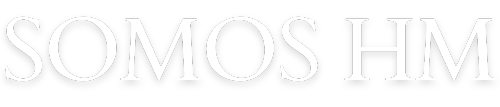
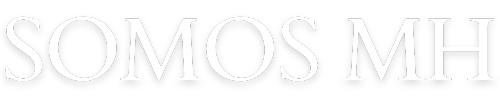
hm a mh

diff --git a/src/components/About.jsx b/src/components/About.jsx
@@ -36,7 +36,7 @@ const AboutUs = () => {
           <h2 className="section-title">Nuestra Misión</h2>
           <i className="fas fa-arrow-up arrow-up"></i>
           <p className="section-text">
-            En HM, nos dedicamos a proveer cortinas metálicas de alta calidad que garantizan la seguridad y elegancia en cada espacio.
+            En MH, nos dedicamos a proveer cortinas metálicas de alta calidad que garantizan la seguridad y elegancia en cada espacio.
           </p>
         </div>
         <div className="text-block">
@@ -93,7 +93,7 @@ const AboutUs = () => {
         <div className="container my-5">
           <h2 className="commitment-title text-center">Nuestro Compromiso con el Cliente</h2>
           <p className="commitment-text text-center">
-            En HM, nos esforzamos por ofrecer no solo productos de alta calidad, sino también un servicio excepcional para nuestros clientes. 
+            En MH, nos esforzamos por ofrecer no solo productos de alta calidad, sino también un servicio excepcional para nuestros clientes. 
             Nuestro compromiso es garantizar que cada uno de nuestros proyectos cumpla con los más altos estándares de satisfacción, 
             brindando soluciones seguras y confiables para hogares y negocios.
           </p>

diff --git a/src/components/Footer.jsx b/src/components/Footer.jsx
@@ -25,12 +25,12 @@ const Footer = () => {
 
                     {/* Columna de información relevante */}
                     <div className="col-md-4 d-flex flex-column align-items-center align-items-md-end mb-3">
-                        <p className="footer-info">Teléfono: 11-6561-5460</p>
+                        <p className="footer-info">Teléfono: 1159580880</p>
                     </div>
                 </div>
             </div>
             <div className="footer-bottom text-center">
-                <p>&copy; {new Date().getFullYear()} HM Cortinas Metalicas Todos los derechos reservados.</p>
+                <p>&copy; {new Date().getFullYear()} MH Cortinas Metalicas Todos los derechos reservados.</p>
             </div>
         </footer>
     );

diff --git a/src/App.jsx b/src/App.jsx
@@ -7,7 +7,6 @@ import About from "./components/About";
 import Footer from "./components/Footer";
 import PMotores from './components/P-motores';
 import PCortinas from './components/P-cortinas';
-import PTablillas from './components/P-tablillas';
 
 function App() {
   return (
@@ -23,7 +22,6 @@ function App() {
           {/* Rutas para las páginas de productos */}
         <Route path="/products/motores" element={<PMotores />} />
         <Route path="/products/cortinas" element={<PCortinas />} />
-        <Route path="/products/tablillas" element={<PTablillas />} />
         </Routes>
         <Footer />
       </Router>

diff --git a/src/components/Contact.jsx b/src/components/Contact.jsx
@@ -31,7 +31,7 @@ const Contact = () => {
             });
 
             if (response.ok) {
-                alert('NivelCero ha recibido tu mensaje, en breve un asesor te contactará');
+                alert('MH ha recibido tu mensaje, en breve un asesor te contactará');
                 setFormData({ name: '', email: '', message: '' });
             } else {
                 alert('Hubo un problema al enviar el mensaje. Por favor, intenta nuevamente.');
